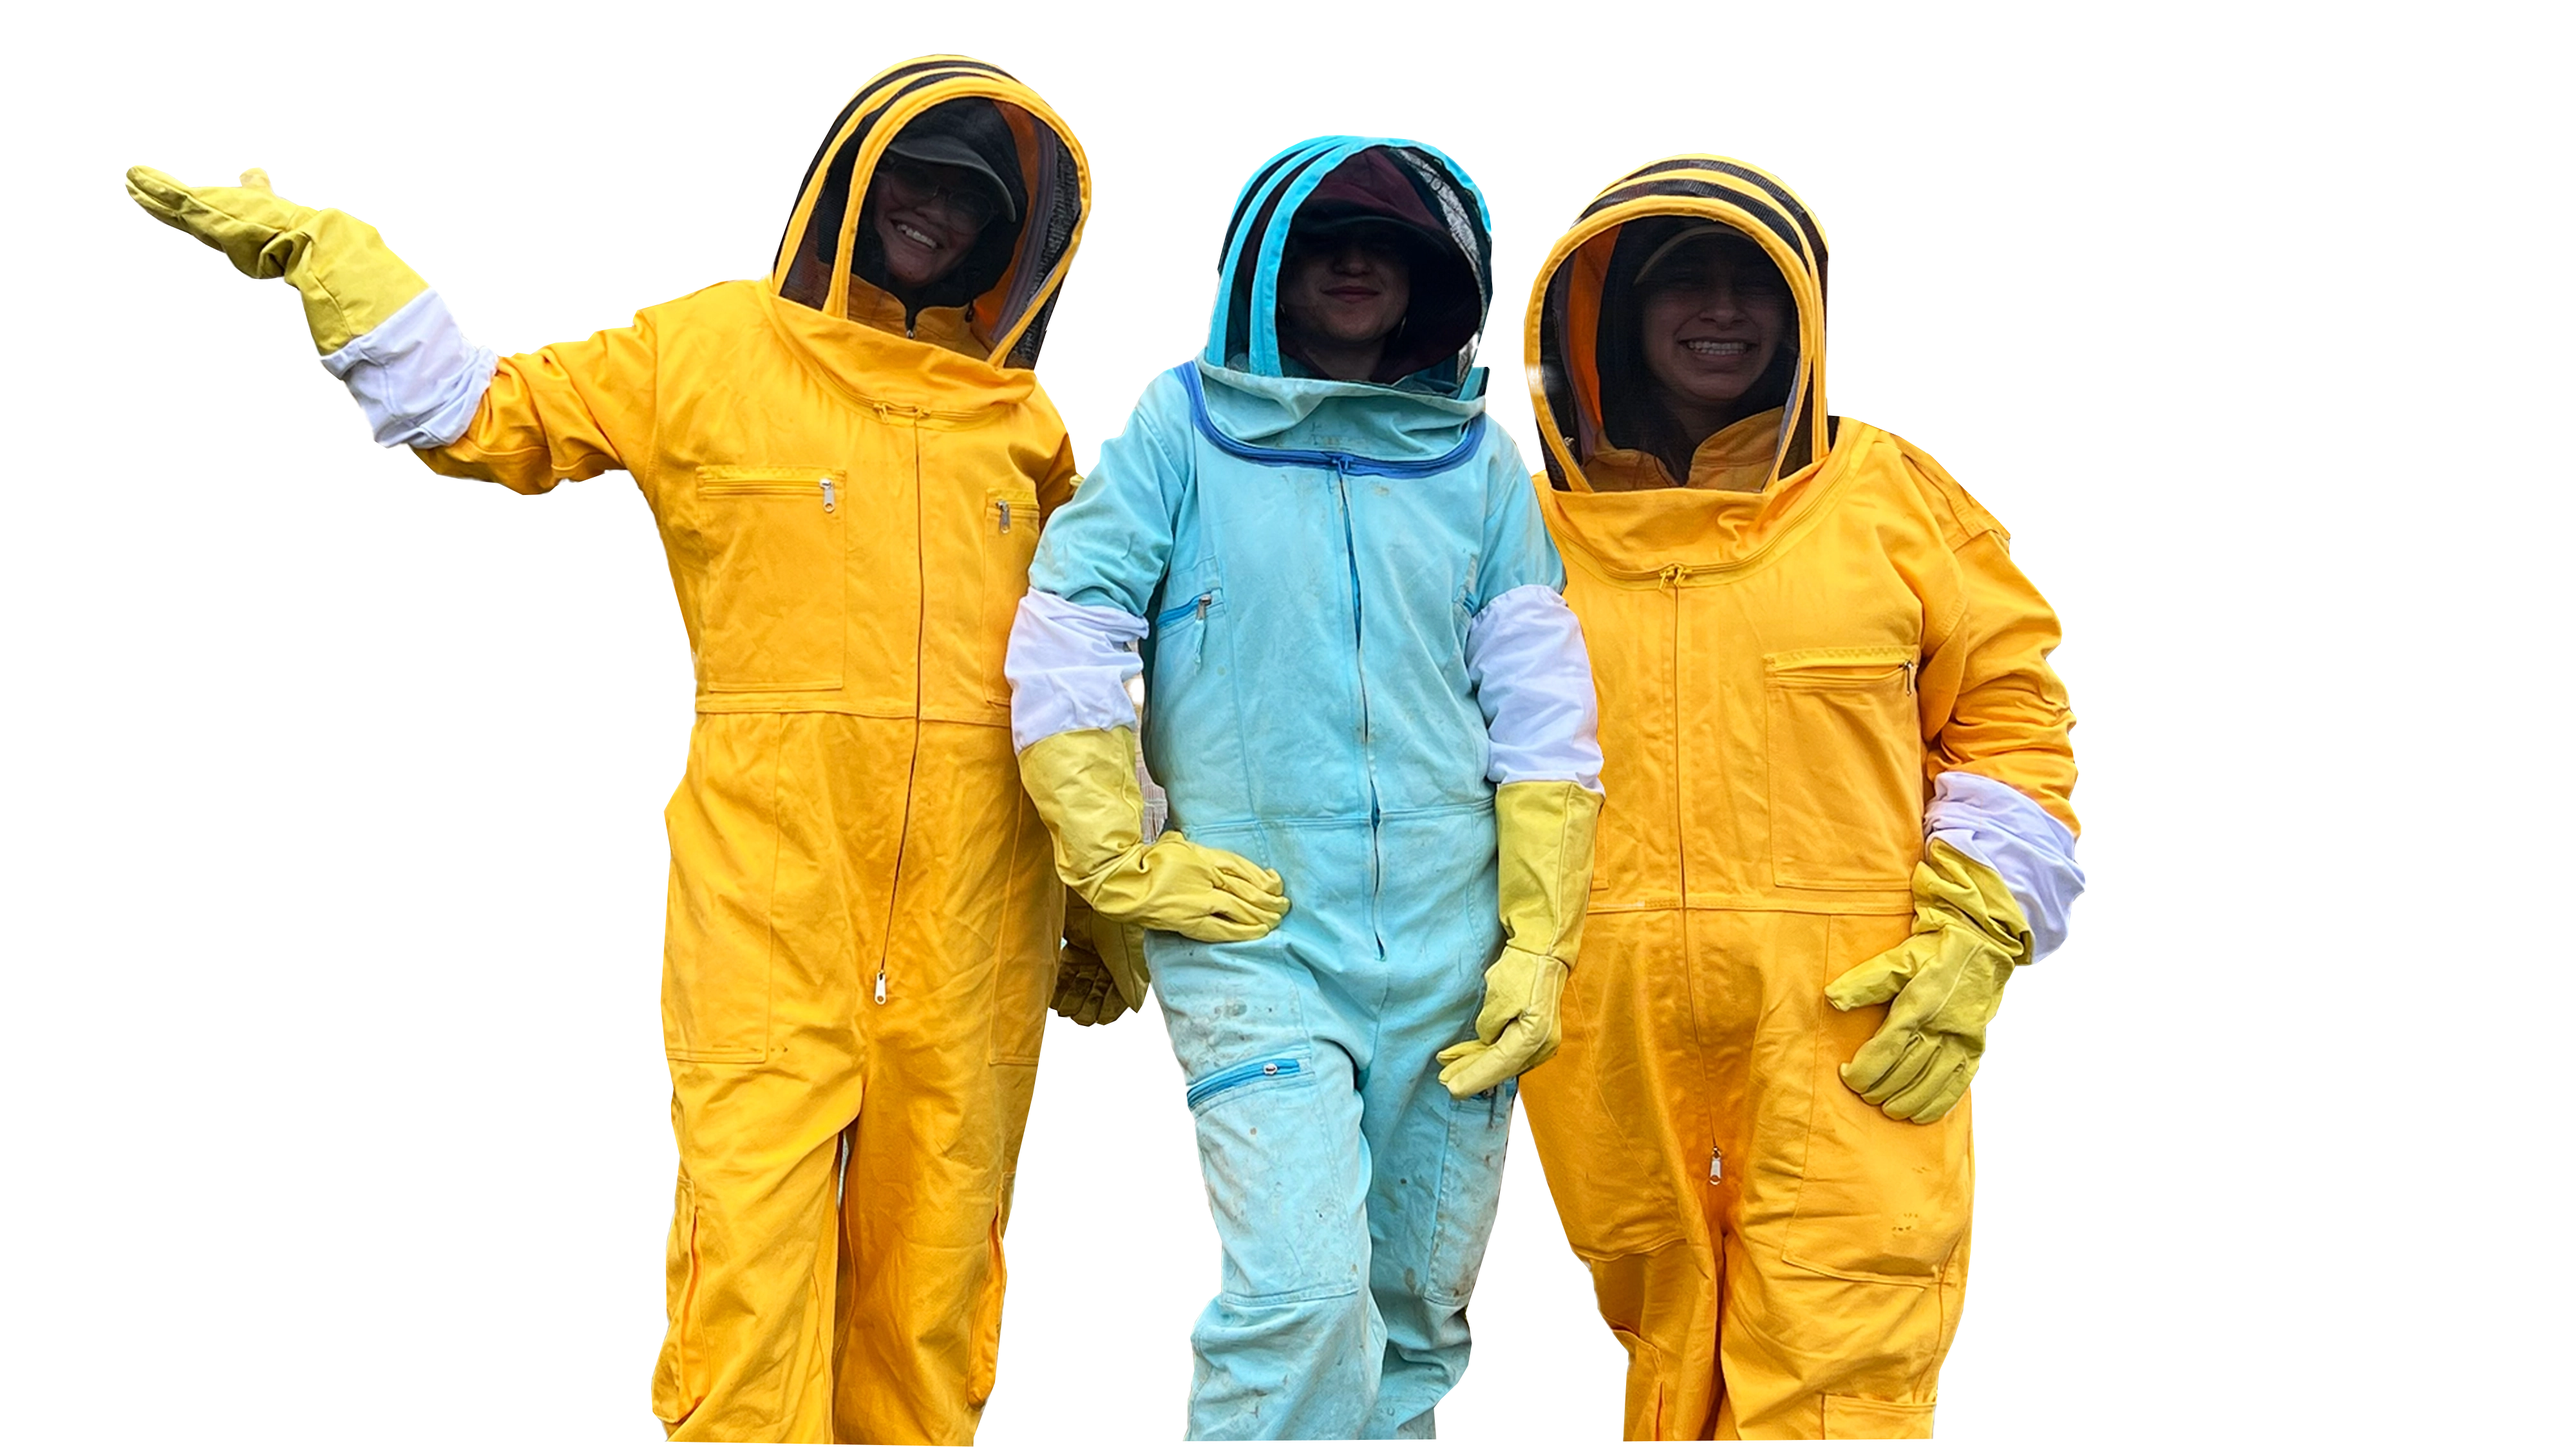
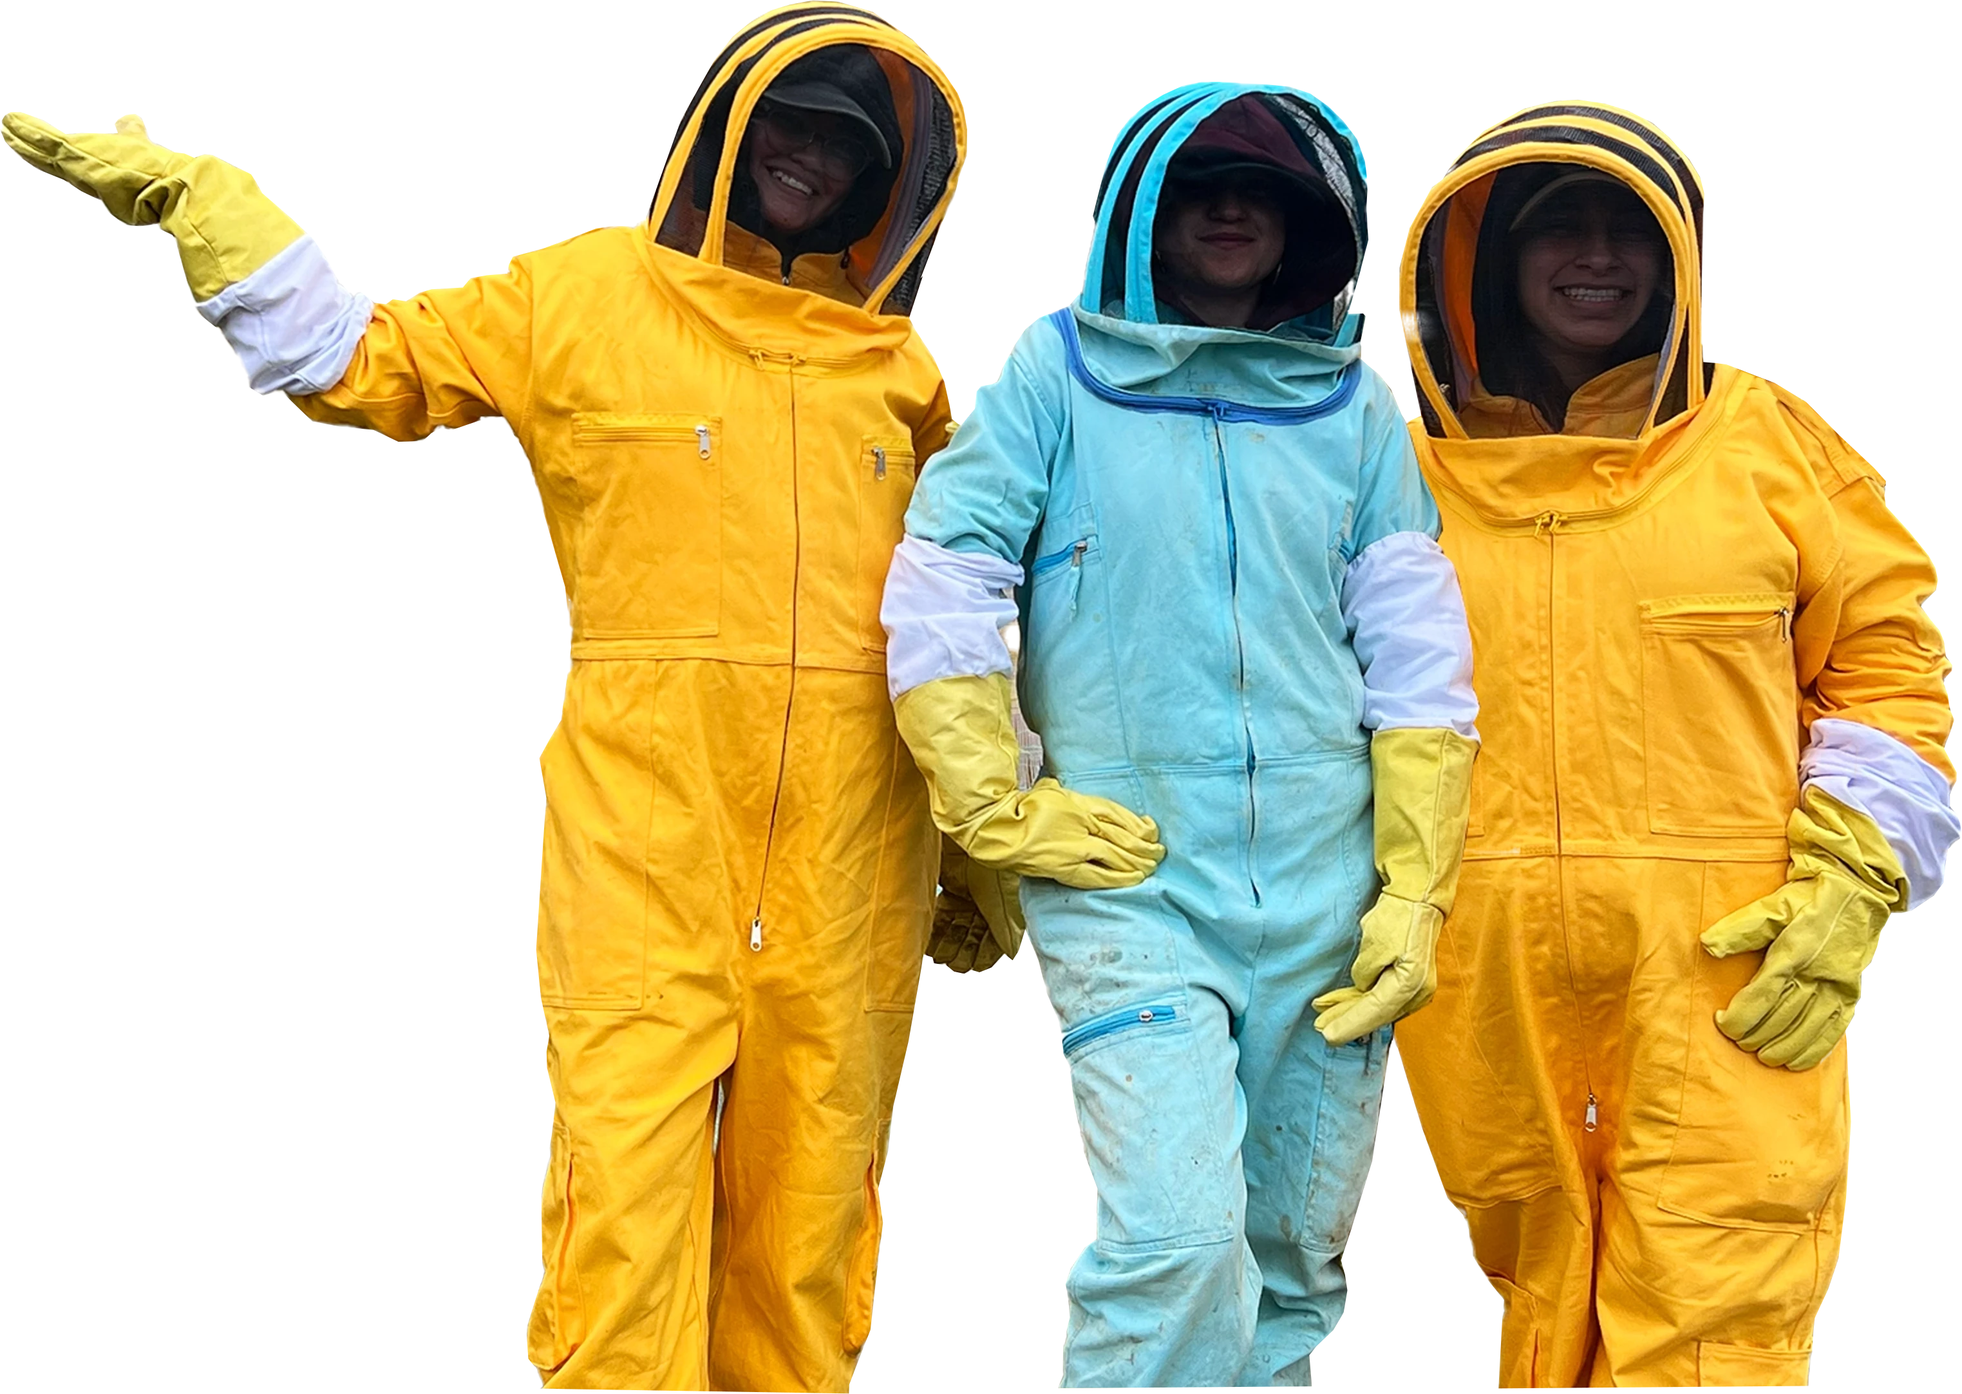
fix images' positions

diff --git a/src/components/equipo-inicio.vue b/src/components/equipo-inicio.vue
@@ -1,39 +1,43 @@
 <template>
     <img class="titulo" src="@/assets/imgs/EQUIPO/TITULO EQUIPO.webp" alt="TITULO EQUIPO">
     <div class="bg">
-        <img class="frailejon1" src="@/assets/imgs/EQUIPO/Frailejón poster.webp" alt="TITULO EQUIPO">
-        <img class="frailejon2" src="@/assets/imgs/EQUIPO/Frailejón poster.webp" alt="TITULO EQUIPO">
+        <img class="equipo" src="@/assets/imgs/EQUIPO/foto portada Equipo.webp" alt="EQUIPO MYA">
+        <img class="frailejon1" src="@/assets/imgs/EQUIPO/Frailejón poster.webp" alt="Frailejon">
+        <img class="frailejon2" src="@/assets/imgs/EQUIPO/Frailejón poster.webp" alt="Frailejon">
     </div>
 </template>
 
 <style scoped>
 .bg{
     margin-top: 10rem;
-    background-image: url("@/assets/imgs/EQUIPO/foto portada Equipo.webp");
-    background-size: cover;
     height: 42vw;
     position: relative;
     overflow: hidden;
 }
 
-.titulo, .frailejon1, .frailejon2{
+.titulo, .frailejon1, .frailejon2, .equipo{
     position: absolute;
+}
+
+.equipo {
+    height: 100vh;
+    transform: translateX(15%) translateY(5%);
 }
 
 .titulo {
     width: 75vw;
-    transform: translateX(15vw) translateY(-45vh);
+    transform: translateX(20%) translateY(-52%);
     z-index: -1;
 }
 
 .frailejon1 {
     height: 150vh;
-    transform: translateX(-10rem);
+    transform: translateX(-20%);
 }
 
 .frailejon2 {
     height: 150vh;
-    transform: translateX(90rem);
+    transform: translateX(180%);
 }
 
 @media (max-width: 1100px) {
